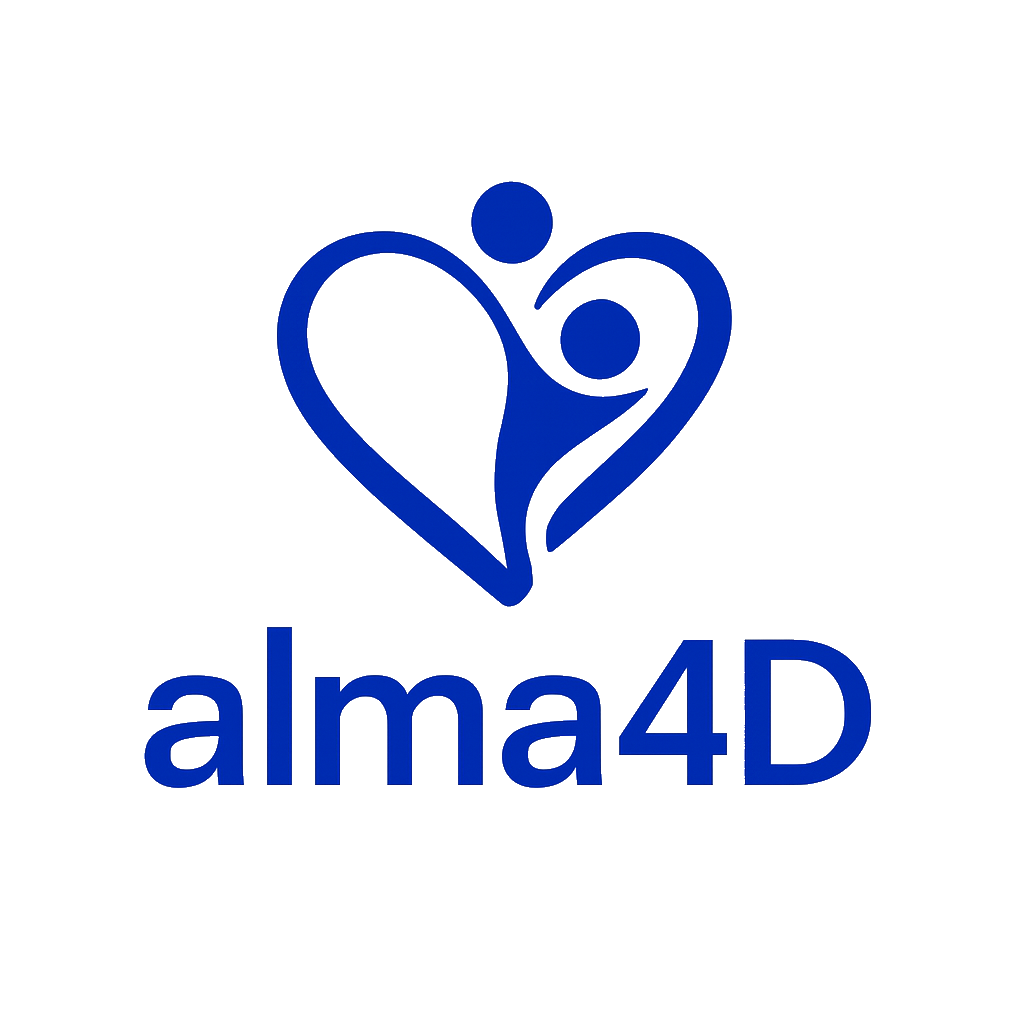
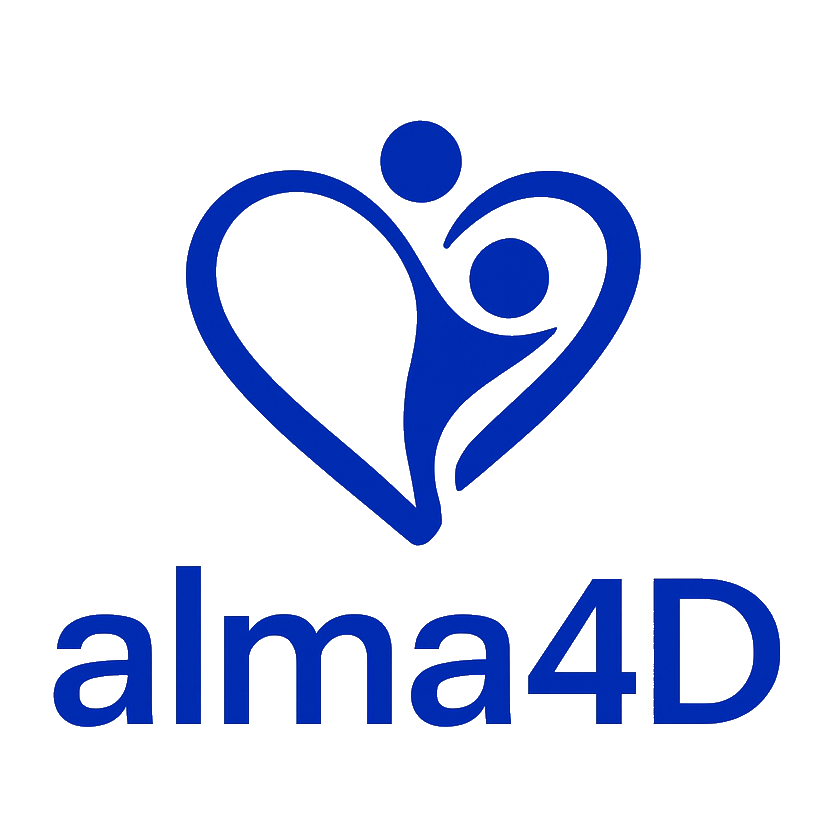
icone ajuste altura

Changed region(s): [[0.0622, 0.1244, 0.933, 0.8708], [0.4665, 0.3732, 0.4976, 0.4665]]

diff --git a/app/components/Header.tsx b/app/components/Header.tsx
@@ -10,18 +10,18 @@ export function Header() {
 
   return (
     <header className="sticky top-0 z-50 border-b border-border bg-surface/90 backdrop-blur">
-      <div className="max-w-5xl mx-auto px-6 py-4 flex items-center justify-between">
+      <div className="max-w-5xl mx-auto px-6 py-2 flex items-center justify-between">
         {/* Logo */}
         <Link
           href="/"
           className="flex items-center gap-2 hover:opacity-90 transition-opacity"
         >
           <Image
-            src="/images/alma4D_nobground.png"
+            src="/images/alma4D_nobg_512.png"
             alt="alma4D"
-            width={240}
-            height={64}
-            className="h-8 w-auto sm:h-9 md:h-10 lg:h-12"
+            width={120}
+            height={120}
+            className="h-7 w-auto sm:h-8 md:h-9 lg:h-10"
             priority
           />
         </Link>
@@ -50,7 +50,7 @@ export function Header() {
 
           <Link
             href="/download"
-            className="inline-flex items-center justify-center rounded-md bg-brand px-4 py-2 text-white text-sm font-semibold hover:bg-brand/90 transition-colors"
+            className="inline-flex items-center justify-center rounded-md bg-brand px-4 py-1.5 text-white text-sm font-semibold hover:bg-brand/90 transition-colors"
           >
             Download
           </Link>
